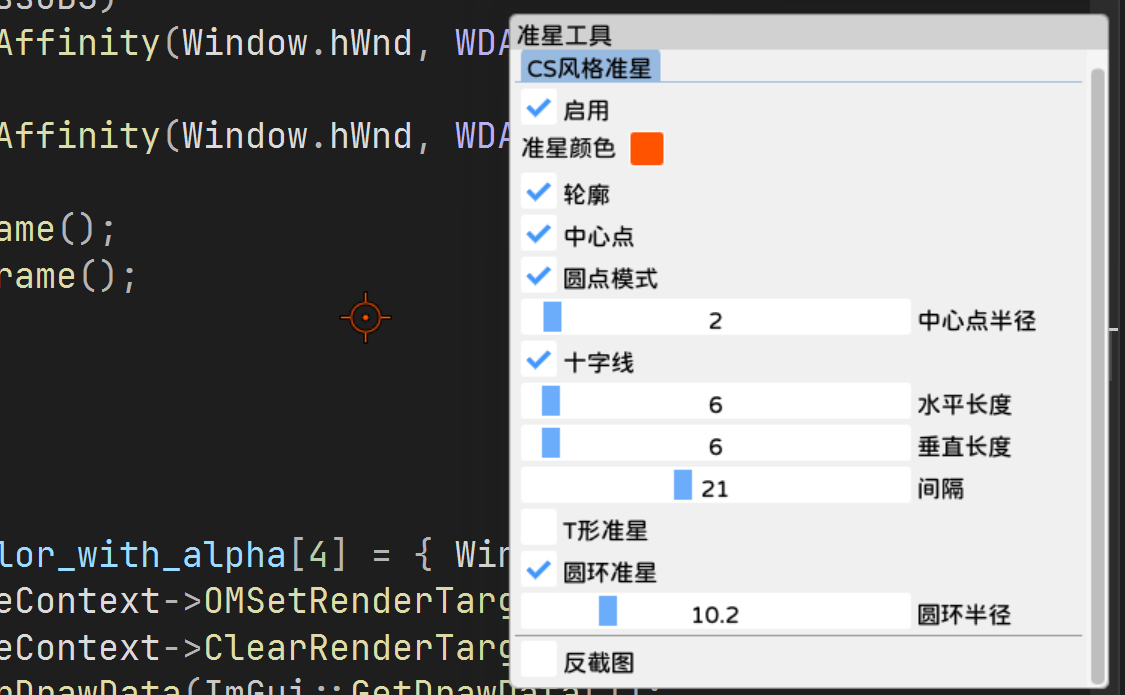
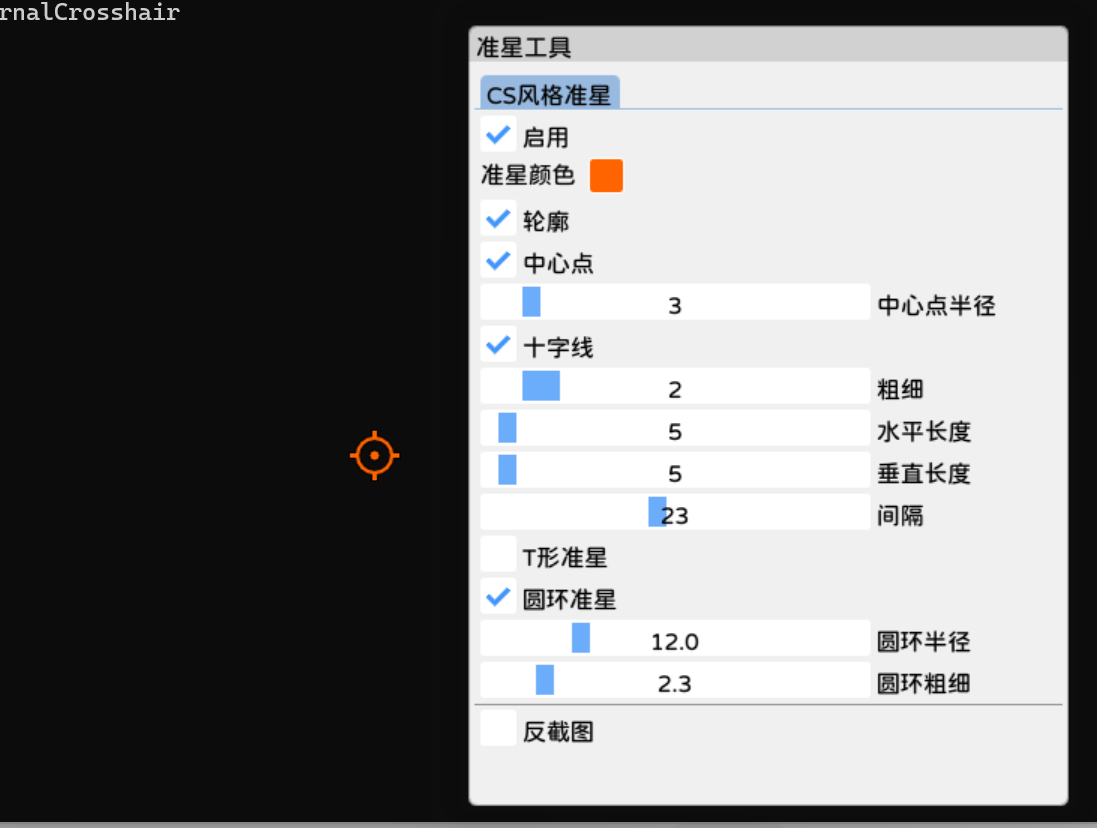
更好的准星设置

diff --git a/ExternalCrosshair/Render.hpp b/ExternalCrosshair/Render.hpp
@@ -18,8 +18,8 @@ namespace Render
 
 		int outlineGap = gap - 1;
 
-		ImVec2 offset1{ chcfg::DotSize,chcfg::DotSize };
-		ImVec2 offset2{ chcfg::DotSize + 1,chcfg::DotSize + 1 };
+		ImVec2 offset1{ 1.f,1.f };
+		ImVec2 offset2{ 2.f,2.f };
 
 		/*
 		===== Outline =====
@@ -29,28 +29,25 @@ namespace Render
 			//dot
 			if (chcfg::Dot)
 			{	
-				if (chcfg::DotB)
-					drawList->AddCircleFilled(ImVec2(pos.x, pos.y), chcfg::DotRads + 1, color & IM_COL32_A_MASK);
-				else
-					drawList->AddRectFilled(ImVec2(pos.x - offset1.x, pos.y - offset1.y), ImVec2(pos.x + offset2.x, pos.y + offset2.y), color & IM_COL32_A_MASK);
+				drawList->AddCircleFilled(ImVec2(pos.x, pos.y), chcfg::DotRads + 1, color & IM_COL32_A_MASK);
 			}
 
 			if (chcfg::Crossline)
 			{
 				//left
-				drawList->AddRectFilled(ImVec2(pos.x - (outlineGap + BorderWidth + chcfg::hLength), pos.y - 1), ImVec2(pos.x - outlineGap, pos.y + 2), color & IM_COL32_A_MASK);
+				drawList->AddRectFilled(ImVec2(pos.x - (outlineGap + BorderWidth + chcfg::hLength), pos.y - 1 - chcfg::Thickness / 2), ImVec2(pos.x - outlineGap, pos.y + 2 + chcfg::Thickness / 2), color & IM_COL32_A_MASK);
 				//right
-				drawList->AddRectFilled(ImVec2(pos.x + (outlineGap + DotSize), pos.y - 1), ImVec2(pos.x + (outlineGap + DotSize + BorderWidth + chcfg::hLength), pos.y + 2), color & IM_COL32_A_MASK);
+				drawList->AddRectFilled(ImVec2(pos.x + (outlineGap + DotSize), pos.y - 1 - chcfg::Thickness / 2), ImVec2(pos.x + (outlineGap + DotSize + BorderWidth + chcfg::hLength), pos.y + 2 + chcfg::Thickness / 2), color & IM_COL32_A_MASK);
 				//top
 				if (!chcfg::tStyle)
-					drawList->AddRectFilled(ImVec2(pos.x - 1, pos.y - (outlineGap + BorderWidth + chcfg::vLength)), ImVec2(pos.x + 2, pos.y - outlineGap), color & IM_COL32_A_MASK);
+					drawList->AddRectFilled(ImVec2(pos.x - 1 - chcfg::Thickness / 2, pos.y - (outlineGap + BorderWidth + chcfg::vLength)), ImVec2(pos.x + 2 + chcfg::Thickness / 2, pos.y - outlineGap), color & IM_COL32_A_MASK);
 				//bottom
-				drawList->AddRectFilled(ImVec2(pos.x - 1, pos.y + outlineGap + DotSize), ImVec2(pos.x + 2, pos.y + (outlineGap + DotSize + BorderWidth + chcfg::vLength)), color & IM_COL32_A_MASK);
+				drawList->AddRectFilled(ImVec2(pos.x - 1 - chcfg::Thickness / 2, pos.y + outlineGap + DotSize), ImVec2(pos.x + 2 + chcfg::Thickness / 2, pos.y + (outlineGap + DotSize + BorderWidth + chcfg::vLength)), color & IM_COL32_A_MASK);
 			}
 
 			//circle
 			if (chcfg::Circle)
-				drawList->AddCircle(ImVec2(pos.x, pos.y), chcfg::CircleRads, color & IM_COL32_A_MASK, 0, 3.0f);
+				drawList->AddCircle(ImVec2(pos.x, pos.y), chcfg::CircleRads, color & IM_COL32_A_MASK, 0, chcfg::CircleThickness + 2.0f);
 		}
 
 		/*
@@ -59,30 +56,26 @@ namespace Render
 		// dot
 		if (chcfg::Dot)
 		{
-			if (chcfg::DotB)
-				drawList->AddCircleFilled(ImVec2(pos.x, pos.y), chcfg::DotRads, chcfg::DefaultColor);
-			else
-				drawList->AddRectFilled(ImVec2(pos.x - offset1.x + DotSize, pos.y - offset1.y + DotSize), ImVec2(pos.x + offset1.x, pos.y + offset1.y), color);
-
+			drawList->AddCircleFilled(ImVec2(pos.x, pos.y), chcfg::DotRads, chcfg::DefaultColor);
 		}
 
 		// Crossline
 		if (chcfg::Crossline)
 		{
 			// left
-			drawList->AddRectFilled(ImVec2(pos.x - (gap + chcfg::hLength), pos.y), ImVec2(pos.x - gap, pos.y + 1), color);
+			drawList->AddRectFilled(ImVec2(pos.x - (gap + chcfg::hLength), pos.y - chcfg::Thickness / 2), ImVec2(pos.x - gap, pos.y + 1 + chcfg::Thickness / 2), color);
 			// right
-			drawList->AddRectFilled(ImVec2(pos.x + gap + DotSize, pos.y), ImVec2(pos.x + (gap + DotSize + chcfg::hLength), pos.y + 1), color);
+			drawList->AddRectFilled(ImVec2(pos.x + gap + DotSize, pos.y - chcfg::Thickness / 2), ImVec2(pos.x + (gap + DotSize + chcfg::hLength), pos.y + 1 + chcfg::Thickness / 2), color);
 			// top
 			if (!chcfg::tStyle)
-				drawList->AddRectFilled(ImVec2(pos.x, pos.y - (gap + chcfg::vLength)), ImVec2(pos.x + 1, pos.y - gap), color);
+				drawList->AddRectFilled(ImVec2(pos.x - chcfg::Thickness / 2, pos.y - (gap + chcfg::vLength)), ImVec2(pos.x + 1 + chcfg::Thickness / 2, pos.y - gap), color);
 			// bottom
-			drawList->AddRectFilled(ImVec2(pos.x, pos.y + gap + DotSize), ImVec2(pos.x + 1, pos.y + (gap + DotSize + chcfg::vLength)), color);
+			drawList->AddRectFilled(ImVec2(pos.x - chcfg::Thickness / 2, pos.y + gap + DotSize), ImVec2(pos.x + 1 + chcfg::Thickness / 2, pos.y + (gap + DotSize + chcfg::vLength)), color);
 		}
 
 		// circle
 		if (chcfg::Circle)
-			drawList->AddCircle(ImVec2(pos.x, pos.y), chcfg::CircleRads, color, 0, 1.0f);
+			drawList->AddCircle(ImVec2(pos.x, pos.y), chcfg::CircleRads, color, 0, chcfg::CircleThickness);
 	}
 
 	// Update window style color

diff --git a/ExternalCrosshair/Crosshair.cpp b/ExternalCrosshair/Crosshair.cpp
@@ -5,14 +5,14 @@
 
 void Crosshair::Menu()
 {
-	ImGui::SetNextWindowSize(ImVec2(400, 450));
+	ImGui::SetNextWindowSize(ImVec2(400, 520));
 	ImGui::Begin("准星工具", nullptr, ImGuiWindowFlags_NoCollapse | ImGuiWindowFlags_NoResize);
 
 	{
 		ImGui::BeginTabBar("TabBar", ImGuiTabBarFlags_Reorderable | ImGuiTabBarFlags_FittingPolicyScroll | ImGuiTabBarFlags_NoTooltip);
 		
 		//Crosshair
-		if (ImGui::BeginTabItem("CS风格准星"))
+		if (ImGui::BeginTabItem("准星设置"))
 		{
 			ImGui::Checkbox("启用", &chcfg::Show);
 			if (chcfg::Show)
@@ -25,15 +25,12 @@ void Crosshair::Menu()
 				ImGui::Checkbox("中心点", &chcfg::Dot);
 				if (chcfg::Dot)
 				{
-					ImGui::Checkbox("圆点模式", &chcfg::DotB);
-					if (chcfg::DotB)
-						ImGui::SliderFloat("中心点半径", &chcfg::DotRads, 1.f, 20.f, "%.f");
-					else
-						ImGui::SliderFloat("中心点大小", &chcfg::DotSize, 1.f, 50.f, "%.f");
+					ImGui::SliderFloat("中心点半径", &chcfg::DotRads, 1.f, 20.f, "%.f");
 				}
 				ImGui::Checkbox("十字线", &chcfg::Crossline);
 				if (chcfg::Crossline)
 				{
+					ImGui::SliderInt("粗细", &chcfg::Thickness, 1, 10, "%d");
 					ImGui::SliderInt("水平长度", &chcfg::hLength, 1, 100, "%d");
 					ImGui::SliderInt("垂直长度", &chcfg::vLength, 1, 100, "%d");
 					ImGui::SliderInt("间隔", &chcfg::Gap, 1, 50, "%d");
@@ -44,6 +41,7 @@ void Crosshair::Menu()
 				if (chcfg::Circle)
 				{
 					ImGui::SliderFloat("圆环半径", &chcfg::CircleRads, 0.f, 50.f, "%.1f");
+					ImGui::SliderFloat("圆环粗细", &chcfg::CircleThickness, 1.f, 10.f, "%.1f");
 				}
 
 				ImGui::Separator();

diff --git a/ExternalCrosshair/Configs.hpp b/ExternalCrosshair/Configs.hpp
@@ -13,18 +13,18 @@ namespace chcfg
 
 	inline bool Show = false;
 	inline bool Dot = true;
-	inline bool DotB = false;
 	inline bool Crossline = true;
 	inline bool tStyle = false;
 	inline bool Circle = false;
 	inline bool Outline = true;
 
-	inline int Gap = 8;
+	inline int Gap = 12;
+	inline int Thickness = 1;
 	inline int hLength = 6;
 	inline int vLength = 6;
-	inline float DotSize = 1.f;
-	inline float DotRads = 2.f;
+	inline float DotRads = 1.f;
 	inline float CircleRads = 3.f;
+	inline float CircleThickness = 1.f;
 
 	inline ImColor DefaultColor = ImColor(0, 255, 0, 255);
 }
